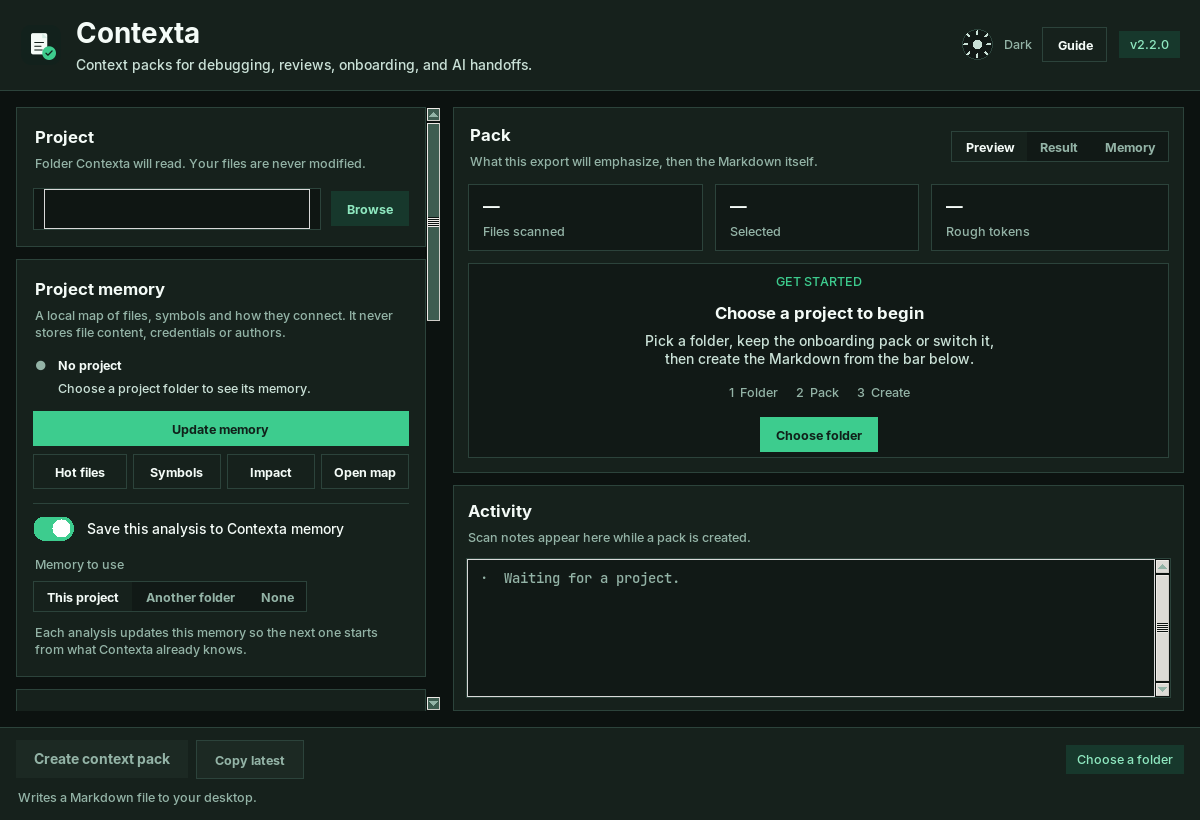
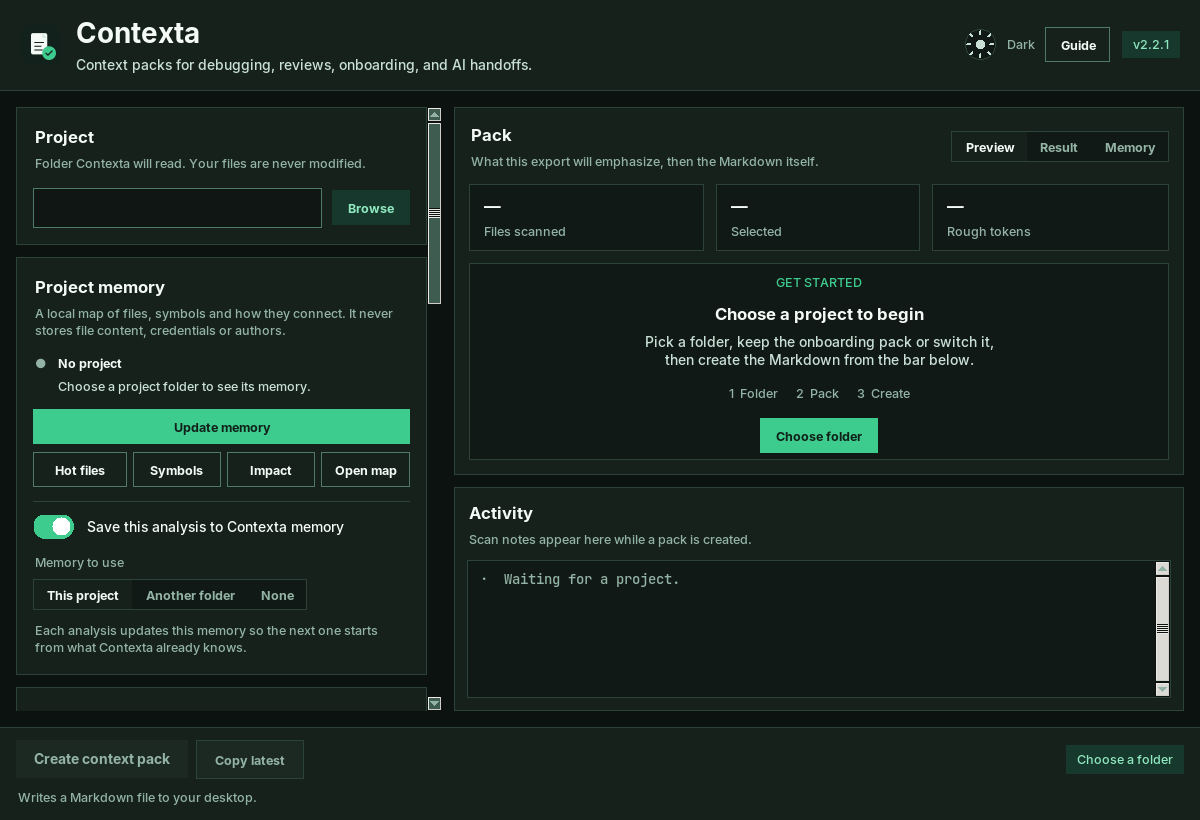
Release 2.2.1: version, changelog and refreshed screenshots
Screenshots regenerated with packaging/gui_screenshots.py to show v2.2.1 and
the new control borders.

diff --git a/contexta_app/__init__.py b/contexta_app/__init__.py
@@ -2,4 +2,4 @@
 Contexta application package.
 """
 
-__version__ = "2.2.0"
+__version__ = "2.2.1"

diff --git a/CHANGELOG.md b/CHANGELOG.md
@@ -6,6 +6,27 @@ Versioning: [Semantic Versioning](https://semver.org/)
 
 ---
 
+## [2.2.1] - 2026-10-24
+
+A fix release. **If you installed 2.2.0 or 2.0.0 from PyPI, `contexta` did not start** (`ModuleNotFoundError: No module named 'contexta'`); upgrade.
+
+### Fixed
+- **The PyPI wheel works.** The console script lived in a top-level module the wheel did not include. `main()` is now `contexta_app/entry.py`, `contexta.py` is a thin launcher, and `python -m contexta_app` works. `scripts/smoke_wheel.py` builds the wheel, installs it in a clean virtualenv and checks `contexta --version`, a pack and `contexta serve` over MCP stdio; the publish workflow runs it before uploading
+- `contexta serve --help` printed "unknown option '--help'" and now prints usage
+- The desktop app's editor MCP setup raised `NameError: messagebox` after writing the config. The config it writes now works from the packaged app (`<exe> serve`) and from a pip install (`python -m contexta_app serve`), and an editor config that cannot be parsed is copied to `.bak` instead of being replaced
+- A directory symlink inside the project (`self -> .`) was followed until the 2000-file cap, listing the same files thousands of times. Directory symlinks that stay inside the project are no longer walked; file symlinks and the rule that links leaving the project are ignored are unchanged
+- The project graph shared the 2000-file cap of a pack and hid it, so on a larger repo `graph impact` answered "(none found in graph)". The graph now has its own limit (50000, or `CONTEXTA_GRAPH_MAX_FILES`), and `graph update` and `graph status` warn when it is reached
+- Any desktop Python project was described as "Scan local repositories and generate curated context packs", Contexta's own purpose
+
+### Added
+- **Token budget** box in the desktop app (`8000`, `8,000` or `32k`), using the same fitter as `--budget`
+- `border_strong` in the theme: inputs, ghost buttons, combo boxes and switch tracks reach 3:1 against their background in both themes
+- CI (`.github/workflows/ci.yml`): the test suite on Linux, Windows and macOS, a wheel smoke test, and ruff in non-blocking mode
+
+### Changed
+- Scan options in the desktop app use one column, so no label is cut off. Entry and Text widgets no longer draw the default white focus ring
+- SECURITY.md and the README now say what touches the network: the one-time download of the `cl100k_base` token encoding, the optional `--ask`, and the GitHub Action's PR comment
+
 ## [2.2.0] - 2026-10-24
 
 Contexta now remembers your project. A local graph of files, symbols, tests and git history answers
